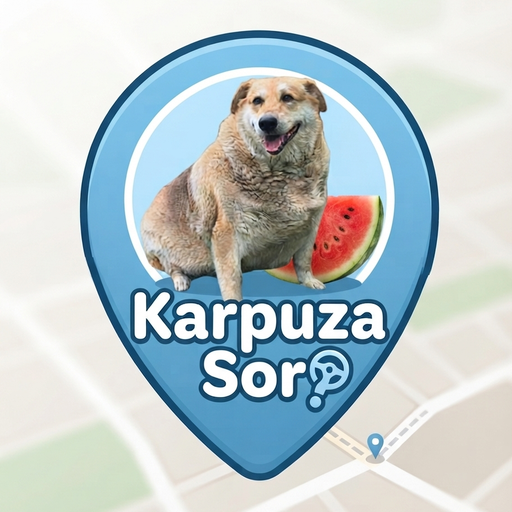
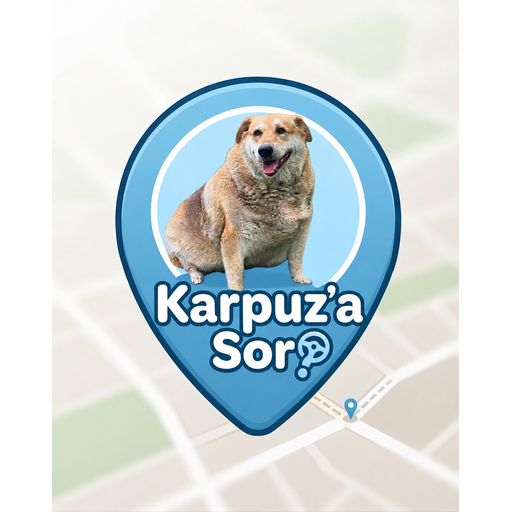
Yeni Karpuz logosu ikonlara ve OG image'a eklendi – v272
icon-192, icon-512 güncellendi + og:image meta tag eklendi

diff --git a/app/layout.tsx b/app/layout.tsx
@@ -16,6 +16,11 @@ export const metadata: Metadata = {
   title: "Karpuz'a Sor",
   description: "İstanbul Bilgi Üniversitesi Santral Kampüs Navigasyon",
   manifest: "/manifest.json",
+  openGraph: {
+    title: "Karpuz'a Sor",
+    description: "İstanbul Bilgi Üniversitesi Santral Kampüs Navigasyon",
+    images: [{ url: "/og-image.jpg", width: 1200, height: 630 }],
+  },
   appleWebApp: {
     capable: true,
     statusBarStyle: "black-translucent",

diff --git a/public/sw.js b/public/sw.js
@@ -1,4 +1,4 @@
-const CACHE = 'santral-v271';
+const CACHE = 'santral-v272';
 const TILE_CACHE = 'tiles-v1';
 const PRECACHE = ['/', '/campus_graph.json'];
 
